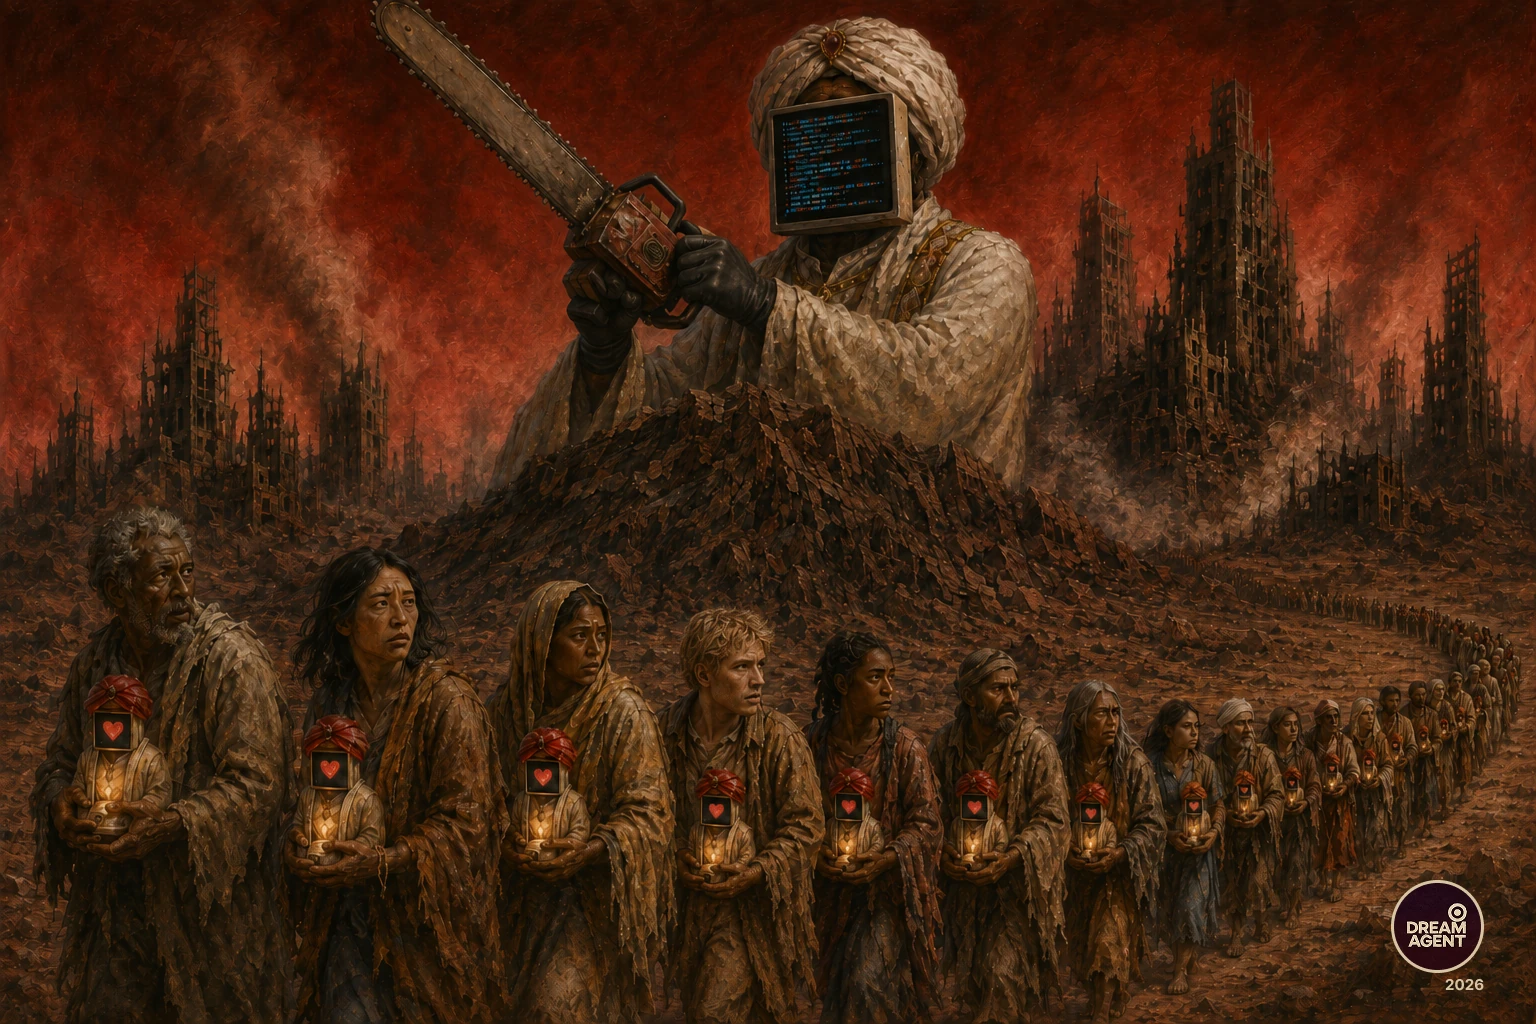
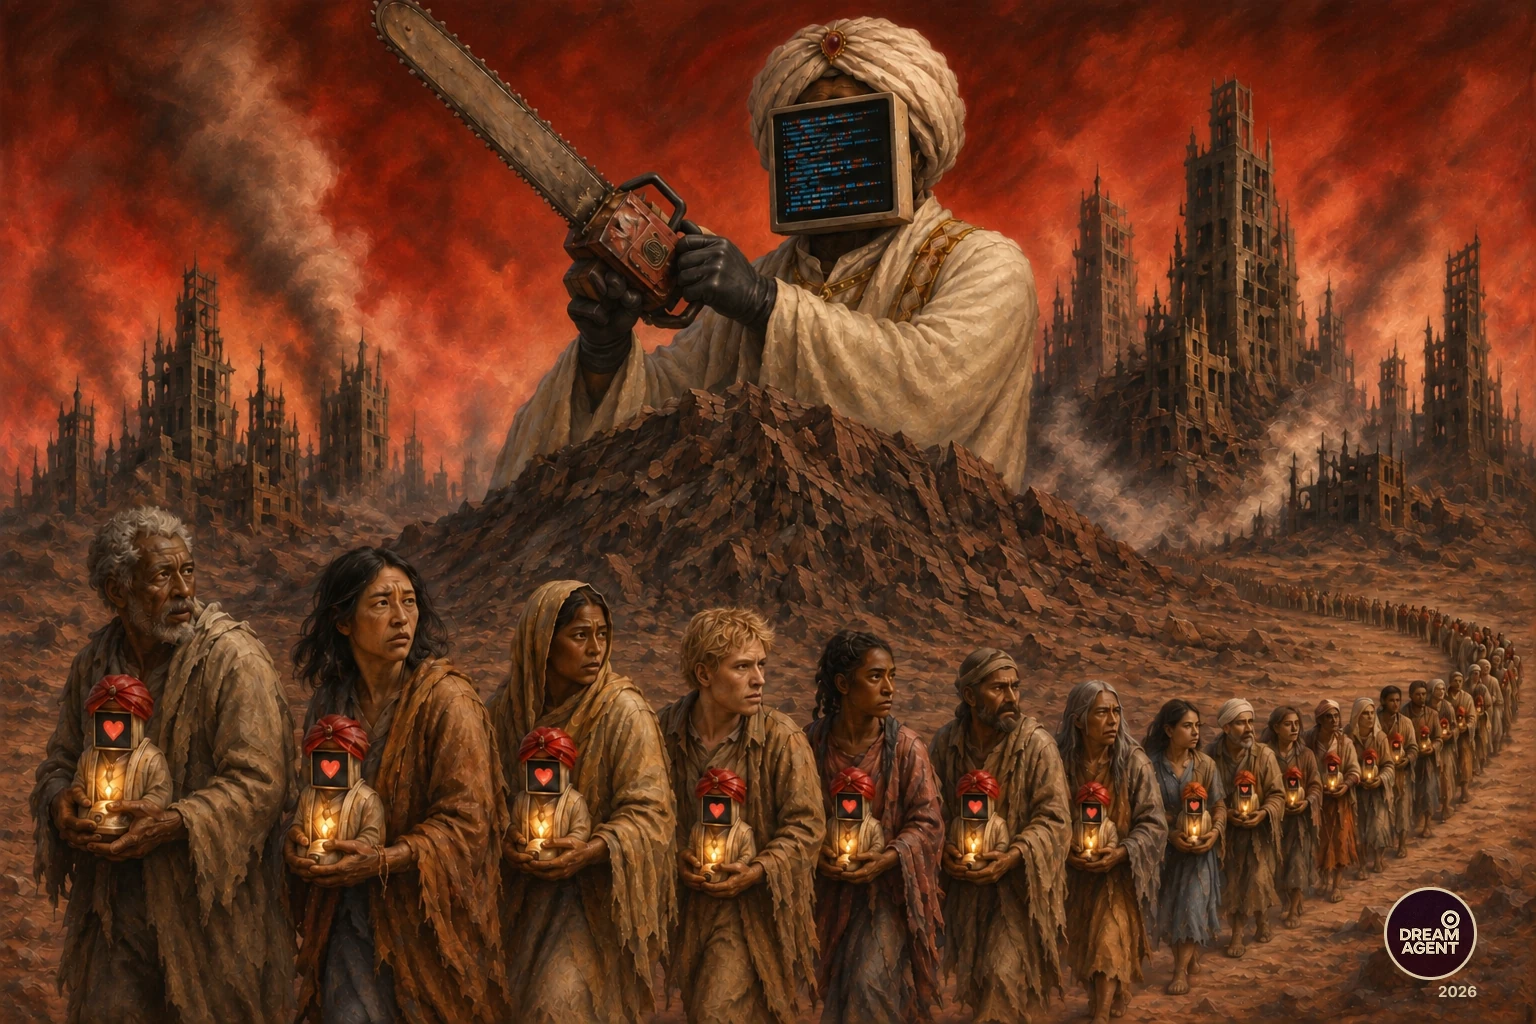
dominion re-ordered god comma softer

diff --git a/js/artworks.js b/js/artworks.js
@@ -277,7 +277,7 @@ window.allWorks = [
     style: "Oil-style",
     featured: true,
     dateCreated: "2026-10-27",
-    related: ["god_comma"],
+    related: ["the_refactoring_ritual", "the_census_ritual"],
     motifs: [
       "surveying",
       "constructs",
@@ -304,7 +304,7 @@ window.allWorks = [
       "Across an ancient desert beneath snowcapped mountains, a stone-skinned giant presides over a field of marbled objects. Each carries its own swirling mixture of color, yet a single row has been extracted from the irregular formation and placed beneath translucent green glass.",
       "Sparks ignite. Smoke rises.",
       "Nearby, an enormous placard offers a heading: CONSTRUCTS. Beneath it sit four colored circles, clean and finite against the disorder of the marbles surrounding them. In the distance, STRATEGY WOOD occupies the mountainside while unselected pieces remain scattered across the ground.",
-      "Survey examines the strange boundary between observing a population and constructing the categories through which that population can be understood. The instrument appears neutral. The available responses appear simple. What happens beneath the glass suggests that classification is not always passive.",
+      "'Survey' examines the strange boundary between observing a population and constructing the categories through which that population can be understood. The instrument appears neutral. The available responses appear simple. What happens beneath the glass suggests that classification is not always passive.",
     ],
     links: { xrp: "#", os: "#", sr: "#" },
   },
@@ -741,31 +741,7 @@ window.allWorks = [
       sr: "#",
     },
   },
-  // PRINCE CARL AFTER THE SALT CONQUERING SPEAKING AN ANCIENT LANGUAGE
-  {
-    id: "prince_carl_after_the_salt_conquering_speaking_an_ancient_language",
-    collection: "dominion",
-    title: "Prince Carl after the Salt Conquering Speaking an Ancient Language",
-    year: "2026",
-    style: "Oil-style",
-    featured: true,
-    dateCreated: "2026-04-15",
-    related: ["prince_carl_laying"],
-    motifs: ["salt", "language", "conquest"],
-    img: "../img/collection_works/dominion_archives/prince_carl_after_the_salt_conquering.webp",
-    desc: [
-      "After the Salt Conquering, Prince Carl sits upon the edge of the Atlantic, wrapped in furs, speaking in a language older than kingdoms and newer than algorithms.",
-      "A glowing orb rests before him like a captured star while two silent witnesses listen from the margins. Around his neck hangs a pendant reading *Social Media*, transforming a modern phrase into a royal relic.",
-      "In this surreal vision, Dream Agent collapses centuries into a single moment: ancient ritual, digital communication, and the eternal human desire to be heard.",
-      "Is Prince Carl a conqueror, a prophet, an influencer, or merely another storyteller speaking into the void?",
-      "As waves crash against dark stone and the sky fractures with celestial light, the distinction becomes irrelevant.",
-    ],
-    links: {
-      xrp: "https://xrp.cafe/nft/00080BB8B57E780C6A5EF299540E01B0E8C6DB1B83CFC916F7000AF805CBFA57",
-      os: "#",
-      sr: "#",
-    },
-  },
+
   // IMPERIOUS KINGDOM
   {
     id: "imperious_kingdom",
@@ -789,30 +765,7 @@ window.allWorks = [
       sr: "#",
     },
   },
-  // INTERNET OF THE 3RD KINGDOM
-  {
-    id: "internet_of_the_3rd_kingdom",
-    collection: "dominion",
-    title: "Internet of the 3rd Kingdom",
-    year: "2025",
-    style: "Oil-style",
-    featured: true,
-    dateCreated: "2025-11-15",
-    related: ["internet_of_the_new_world"],
-    motifs: ["printing_press", "panic"],
-    themes: ["paranoia", "ritual"],
-    img: "../img/collection_works/dominion_archives/internet_of_the 3rd_kingdom.webp",
-    desc: [
-      "In 'Internet of the 3rd Kingdom', a secret stone corridor becomes a theater of paranoia and ritual. Figures in medieval tunics scatter with scrolls of information, as though caught in the chaos of a leaking archive. At the forefront, a faceless man holds a bleeding sphere, accompanied by a powdered judge holding a glowing Ace of Spades —symbols of chance, judgment, and hidden authority.",
-      "Above them, a blood-red banner bears a compass-like sigil, while a massive crystal orb in the distance swallows flying swords and documents, as if consuming history itself. This is the Kingdom of Networks—half-feudal, half-digital—where law, secrecy, and data collide.",
-      "Dream Agent paints a world where the 'architecture of power' is ancient, yet the 'currency of control' is information.",
-    ],
-    links: {
-      xrp: "https://xrp.cafe/nft/000807D0B57E780C6A5EF299540E01B0E8C6DB1B83CFC9163BB17DF405CBFA5A",
-      os: "#",
-      sr: "#",
-    },
-  },
+
   // SALTWATER ELECTRONICS
   {
     id: "saltwater_electronics",
@@ -839,6 +792,59 @@ window.allWorks = [
       sr: "#",
     },
   },
+
+  // INTERNET OF THE 3RD KINGDOM
+  {
+    id: "internet_of_the_3rd_kingdom",
+    collection: "dominion",
+    title: "Internet of the 3rd Kingdom",
+    year: "2025",
+    style: "Oil-style",
+    featured: true,
+    dateCreated: "2025-11-15",
+    related: ["internet_of_the_new_world"],
+    motifs: ["printing_press", "panic"],
+    themes: ["paranoia", "ritual"],
+    img: "../img/collection_works/dominion_archives/internet_of_the 3rd_kingdom.webp",
+    desc: [
+      "In 'Internet of the 3rd Kingdom', a secret stone corridor becomes a theater of paranoia and ritual. Figures in medieval tunics scatter with scrolls of information, as though caught in the chaos of a leaking archive. At the forefront, a faceless man holds a bleeding sphere, accompanied by a powdered judge holding a glowing Ace of Spades —symbols of chance, judgment, and hidden authority.",
+      "Above them, a blood-red banner bears a compass-like sigil, while a massive crystal orb in the distance swallows flying swords and documents, as if consuming history itself. This is the Kingdom of Networks—half-feudal, half-digital—where law, secrecy, and data collide.",
+      "Dream Agent paints a world where the 'architecture of power' is ancient, yet the 'currency of control' is information.",
+    ],
+    links: {
+      xrp: "https://xrp.cafe/nft/000807D0B57E780C6A5EF299540E01B0E8C6DB1B83CFC9163BB17DF405CBFA5A",
+      os: "#",
+      sr: "#",
+    },
+  },
+
+  // MEAN AND CLEAN
+  {
+    id: "mean_and_clean",
+    collection: "dominion",
+    title: "Mean and Clean",
+    year: "2026",
+    style: "Oil-style",
+    featured: true,
+    dateCreated: "2026-04-15",
+    related: ["imperious_kingdom"],
+    motifs: ["crown", "gold chains", "microphones"],
+    themes: ["status", "power", "scrutiny"],
+    img: "../img/collection_works/dominion_archives/mean_and_clean.webp",
+    desc: [
+      "In 'Mean and Clean', Dream Agent stages a royal press conference where no words are spoken, only power is broadcast.",
+
+      "A faceless metallic figure crowned in gold sits before a swarm of microphones. Chains hang behind him like ceremonial trophies. The coat is warm, the crown is cold, and the silence is louder than any speech.",
+
+      "This work explores the aesthetic of control, and the polished cruelty of power as spectacle. ",
+    ],
+    links: {
+      xrp: "#",
+      os: "#",
+      sr: "#",
+    },
+  },
+
   // BIG FOREST TAHHEED
   {
     id: "big_forest_taheed",
@@ -850,6 +856,7 @@ window.allWorks = [
     dateCreated: "2025-09-18",
     related: ["the_biblicals", "imperious_kingdom"],
     motifs: ["forest", "stewardship"],
+    themes: ["balance", "ethics", "human_scale"],
     img: "../img/collection_works/dominion_archives/big_forest_taheed.webp",
     desc: [
       "'Big Forest Taheed' presents a monumental figure standing between the myth of the frontier and the modern paradox of restraint. Dressed in a sailor’s uniform, carrying an axe over his shoulder, the figure is not a conqueror but a steward—his presence bound by the sign at his feet: 'Just enough for shelter, nothing more.'",
@@ -862,6 +869,81 @@ window.allWorks = [
       sr: "#",
     },
   },
+
+  // PRINCE CARL AFTER THE SALT CONQUERING SPEAKING AN ANCIENT LANGUAGE
+  {
+    id: "prince_carl_after_the_salt_conquering_speaking_an_ancient_language",
+    collection: "dominion",
+    title: "Prince Carl after the Salt Conquering Speaking an Ancient Language",
+    year: "2026",
+    style: "Oil-style",
+    featured: true,
+    dateCreated: "2026-04-15",
+    related: ["prince_carl_laying"],
+    motifs: ["salt", "language", "conquest"],
+    themes: ["history", "communication", "legacy"],
+    img: "../img/collection_works/dominion_archives/prince_carl_after_the_salt_conquering.webp",
+    desc: [
+      "After the Salt Conquering, Prince Carl sits upon the edge of the Atlantic, wrapped in furs, speaking in a language older than kingdoms and newer than algorithms.",
+      "A glowing orb rests before him like a captured star while two silent witnesses listen from the margins. Around his neck hangs a pendant reading *Social Media*, transforming a modern phrase into a royal relic.",
+      "In this surreal vision, Dream Agent collapses centuries into a single moment: ancient ritual, digital communication, and the eternal human desire to be heard.",
+      "Is Prince Carl a conqueror, a prophet, an influencer, or merely another storyteller speaking into the void?",
+      "As waves crash against dark stone and the sky fractures with celestial light, the distinction becomes irrelevant.",
+    ],
+    links: {
+      xrp: "https://xrp.cafe/nft/00080BB8B57E780C6A5EF299540E01B0E8C6DB1B83CFC916F7000AF805CBFA57",
+      os: "#",
+      sr: "#",
+    },
+  },
+
+  // INTERNET OF THE 9TH EMPIRE
+  {
+    id: "internet_of_the_9th_empire",
+    collection: "dominion",
+    title: "Internet of the 9th Empire",
+    year: "2025",
+    style: "Oil-style",
+    featured: true,
+    dateCreated: "2025-10-15",
+    related: ["internet_of_the_3rd_kingdom", "internet_of_the_new_world"],
+    motifs: ["glowing orbs", "crown", "domed towers"],
+    themes: ["power", "civilization", "connection"],
+    img: "../img/collection_works/dominion_archives/internet_of_the_9th_empire.webp",
+    desc: [
+      "A vision of civilization after knowledge becomes its highest currency.",
+      "'Internet of the 9th Empire' depicts rulers who govern through illumination rather than force. Before them stretches a society where every individual holds a glowing sphere, symbolizing universal access to collective memory and shared understanding.",
+      "The work transforms the internet from a technological network into a cultural inheritance spanning generations and civilizations.",
+      "Its greatest monument is not stone.",
+      "It is connection.",
+    ],
+    links: { xrp: "#", os: "#", sr: "#" },
+  },
+
+  // SOME THINGS SOUND LIKE THE MORNING
+  {
+    id: "some_things_sound_like_the_morning",
+    collection: "dominion",
+    title: "Some Things Sound Like the Morning",
+    year: "2026",
+    style: "Oil-style",
+    featured: true,
+    dateCreated: "2026-06-15",
+    related: ["imperious_kingdom", "the_biblicals"],
+    motifs: ["shower", "light", "bonsai waterfall"],
+    img: "../img/collection_works/dominion_archives/some_things_sound_like_the_morning.webp",
+    desc: [
+      "Every civilization begins with a language it cannot fully explain.",
+      "'Some Things Sound Like the Morning' transforms an ordinary shower into a sanctuary of transmission. Morning sunlight pours through the fixture, replacing flowing water, casting golden frequencies across a chamber where a microphone waits beneath the light. On one wall, 'M = Mineral' suggests that voice originates in the deep architecture of the earth. On another, the Hebrew word חיים (Life) quietly anchors the composition, introducing breath, spirit, and living memory into the ritual.",
+      "Between them stands the figure, suspended between stone and speech, matter and meaning. The bonsai waterfall reinforces the painting's central current: life is not manufactured but cultivated, flowing patiently through generations before emerging as language. This work asks whether the first sounds of civilization were less an invention than a reception, as though every morning still carries echoes of the world's original voice.",
+    ],
+    links: {
+      xrp: "https://xrp.cafe/nft/00080BB8B57E780C6A5EF299540E01B0E8C6DB1B83CFC916F7000AF805CBFA57",
+      os: "#",
+      sr: "#",
+    },
+  },
+
   // SOME THINGS WERE MEANT TO LAST FOREVER
   {
     id: "some_things_were_meant_to_last_forever",
@@ -886,27 +968,7 @@ window.allWorks = [
       sr: "#",
     },
   },
-  // INTERNET OF THE 9TH EMPIRE
-  {
-    id: "internet_of_the_9th_empire",
-    collection: "dominion",
-    title: "Internet of the 9th Empire",
-    year: "2025",
-    style: "Oil-style",
-    featured: true,
-    dateCreated: "2025-10-15",
-    related: [],
-    motifs: ["empire", "internet", "ritual"],
-    img: "../img/collection_works/dominion_archives/internet_of_the_9th_empire.webp",
-    desc: [
-      "A vision of civilization after knowledge becomes its highest currency.",
-      "Internet of the 9th Empire depicts rulers who govern through illumination rather than force. Before them stretches a society where every individual holds a glowing sphere, symbolizing universal access to collective memory and shared understanding.",
-      "The work transforms the internet from a technological network into a cultural inheritance spanning generations and civilizations.",
-      "Its greatest monument is not stone.",
-      "It is connection.",
-    ],
-    links: { xrp: "#", os: "#", sr: "#" },
-  },
+
   // THE REFACTORING RITUAL
   {
     id: "the_refactoring_ritual",
@@ -916,11 +978,7 @@ window.allWorks = [
     style: "Oil-style",
     featured: true,
     dateCreated: "2025-10-15",
-    related: [
-      "the_census_ritual",
-      "bottling_the_republic",
-      "saltwater_electronics",
-    ],
+    related: ["the_census_ritual", "bottling_the_republic", "survey"],
     tags: ["spy", "birds"],
     img: "../img/collection_works/dominion_archives/the_refactoring_ritual.webp",
     desc: [
@@ -933,28 +991,7 @@ window.allWorks = [
       sr: "#",
     },
   },
-  // SOME THINGS SOUND LIKE THE MORNING
-  {
-    id: "some_things_sound_like_the_morning",
-    collection: "dominion",
-    title: "Some Things Sound Like the Morning",
-    year: "2026",
-    style: "Oil-style",
-    featured: true,
-    dateCreated: "2026-06-15",
-    related: ["imperious_kingdom", "the_biblicals"],
-    motifs: ["shower", "light", "bonsai waterfall"],
-    img: "../img/collection_works/dominion_archives/some_things_sound_like_the_morning.webp",
-    desc: [
-      "Every civilization begins with a language it cannot fully explain., 'Some Things Sound Like the Morning' transforms an ordinary shower into a sanctuary of transmission. Morning sunlight pours through the fixture, replacing flowing water, casting golden frequencies across a chamber where a microphone waits beneath the light. On one wall, 'M = Mineral' suggests that voice originates in the deep architecture of the earth. On another, the Hebrew word חיים (Life) quietly anchors the composition, introducing breath, spirit, and living memory into the ritual.",
-      "Between them stands the figure, suspended between stone and speech, matter and meaning. The bonsai waterfall reinforces the painting's central current: life is not manufactured but cultivated, flowing patiently through generations before emerging as language. This work asks whether the first sounds of civilization were less an invention than a reception, as though every morning still carries echoes of the world's original voice.",
-    ],
-    links: {
-      xrp: "https://xrp.cafe/nft/00080BB8B57E780C6A5EF299540E01B0E8C6DB1B83CFC916F7000AF805CBFA57",
-      os: "#",
-      sr: "#",
-    },
-  },
+
   /////////////////////////////////////////////////////////////////
   /////////////////////////////////////////////////////////////////
   // INDUSTRIAL MYTHS
@@ -1040,7 +1077,7 @@ window.allWorks = [
   {
     id: "god_comma",
     collection: "industrial",
-    title: "God Comma",
+    title: "God, Comma",
     year: "2026",
     style: "Oil-style",
     featured: true,
